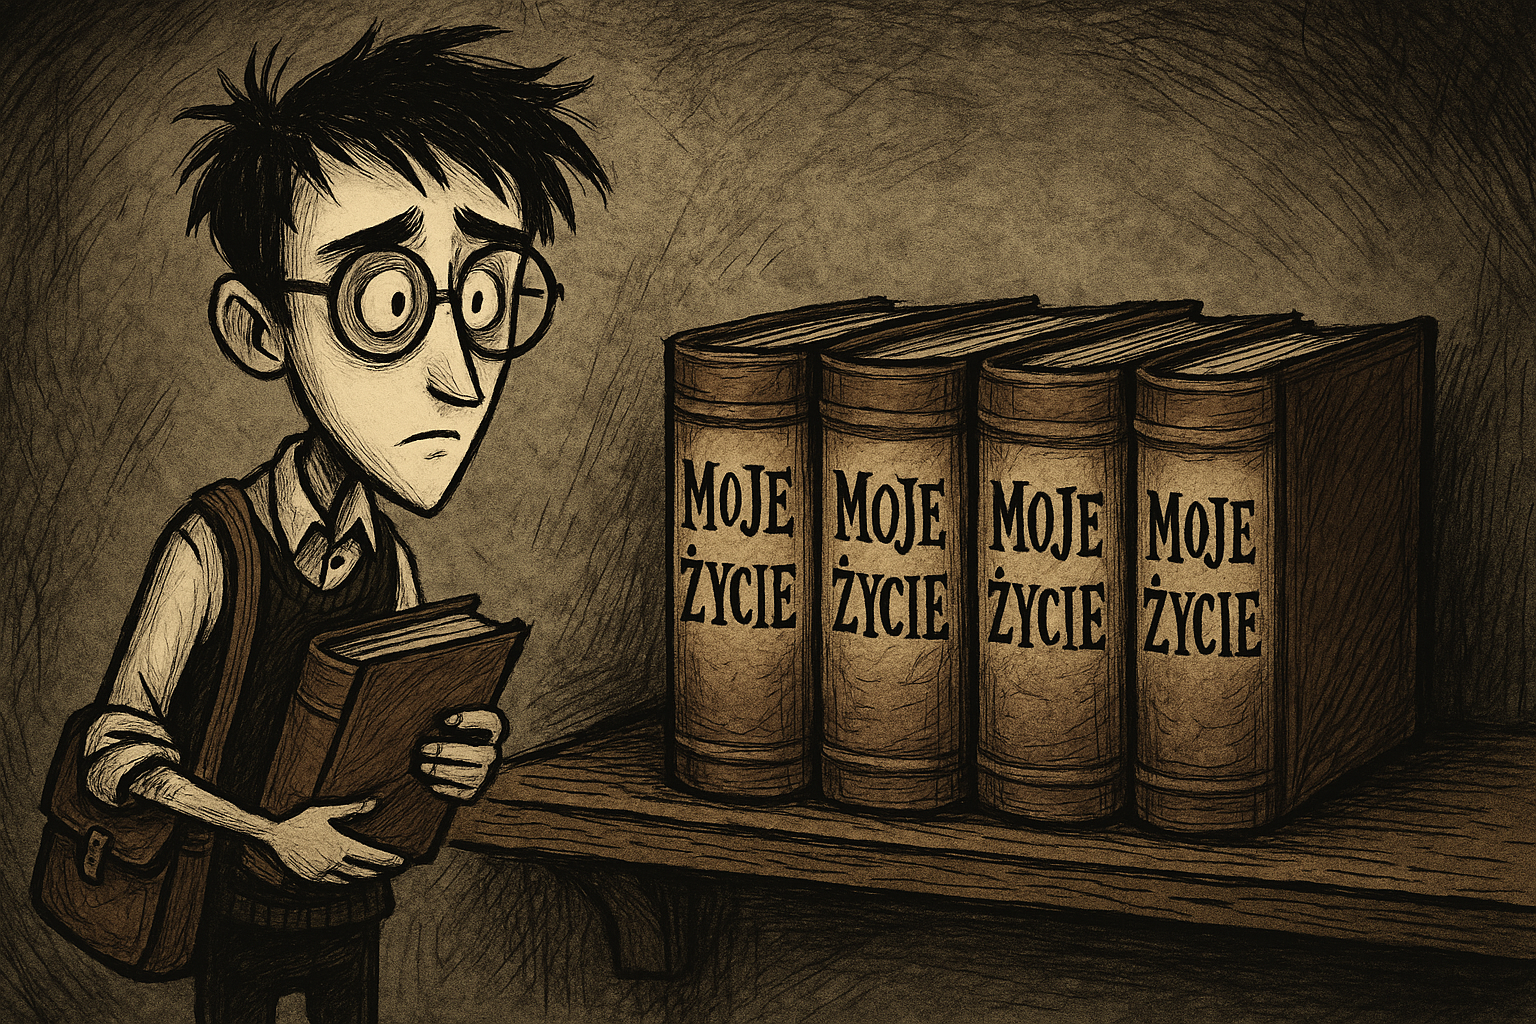
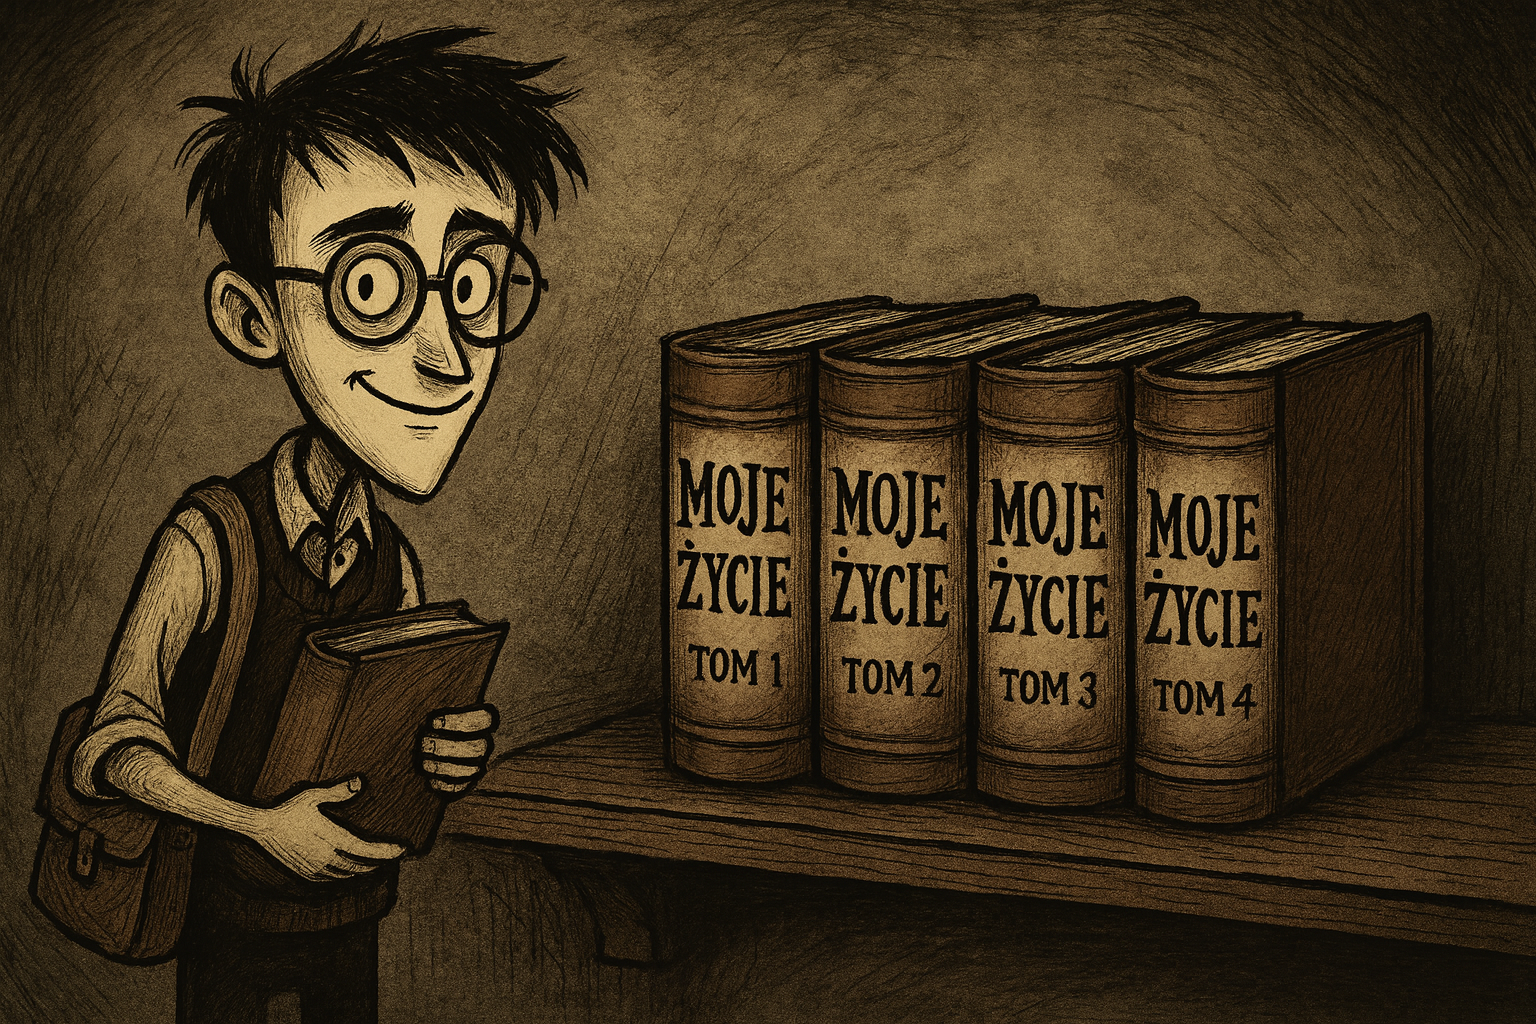
.

diff --git a/_posts/2025-11-01-rozwoj-osobowosci.md b/_posts/2025-11-01-rozwoj-osobowosci.md
@@ -3,3 +3,5 @@ title: Pytanie 32 – rozwój osobowości (dwie teorie)
 image: 
 ---
 Pytanie 32: Jak przebiega rozwój osobowości? Omów i porównaj rozwój osobowości w oparciu o dwie wybrane teorie psychologiczne.
+
+Cervone D. i Pervin L. A. (201). Osobowość. Teoria i badania. Kraków: Wydawnictwo UJ. (Fragmenty dotyczące rozwoju osobowości w rozdziałach 3- 13)
